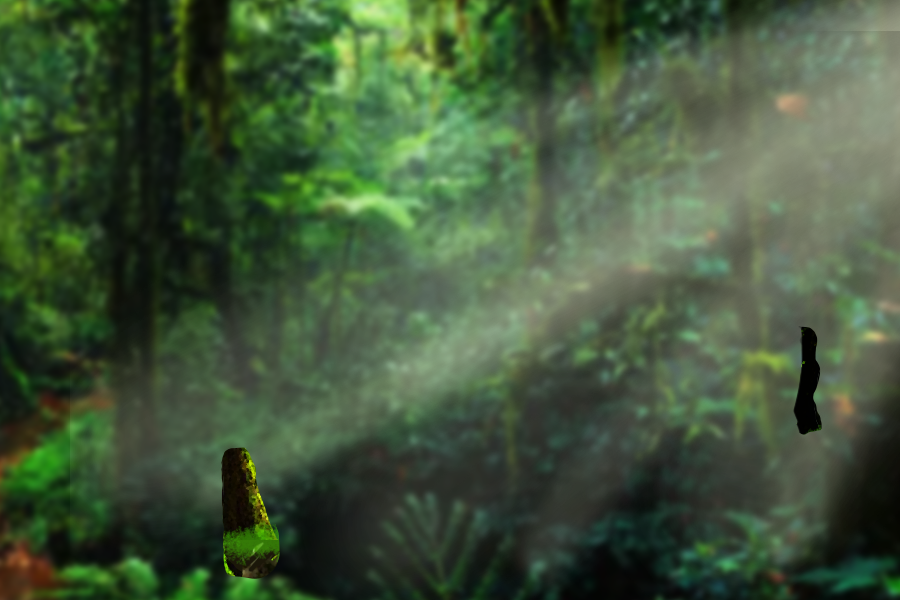
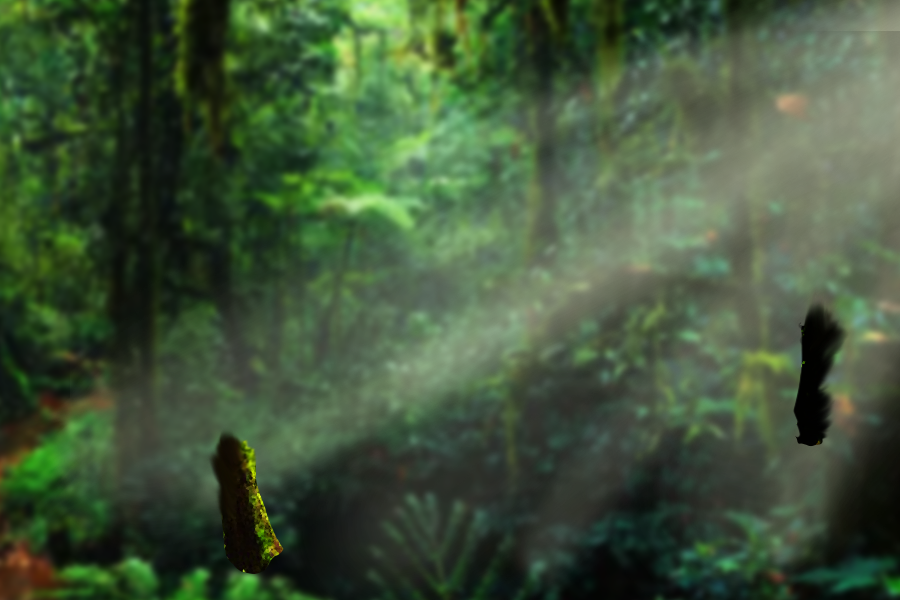
new scren

diff --git a/src/Levels/Level.js b/src/Levels/Level.js
@@ -314,16 +314,16 @@ class Level {
       },
       3: {
         renderMap: [
-          0,  0,  0,  0,  0,  0,  0,  0,  0,  0,  0,  0,  0,  0,  0,
-          0,  0,  0,  0,  0,  0,  0,  0,  0,  0,  0,  0,  0,  0,  0,
-          0,  0,  0,  0,  0,  0,  0,  0,  0,  0,  0,  0,  0,  0,  0,
-          0,  0,  0,  0,  0,  0,  0,  0,  0,  0,  0,  0,  0,  0,  0,
-          0,  0,  0,  0,  0, 17,  0,  0,  0, 17,  0,  0,  0,  0,  0,
-          0,  0,  0, 17,  0, 16,  0, 17,  0, 16,  0,  3,  1,  1,  1,
-          0,  0,  0, 16,  0,  0,  0, 16,  0,  0,  0,  4, 50,  5,  5,
-          0,  0,  0,  0,  0,  0,  0,  0,  0,  0,  0,  4,  5,  5,  5,
-          1,  1,  1,  1,  1,  0,  0,  0,  0,  0,  0, 55,  5, 40,  5,
-          5,  5,  5,  5,  5,  0,  0,  0,  0,  0,  0,  0,  5,  5,  5
+          0, 25,  0,  0,  0,  0,  0,  0,  0,  0,  0,  0,  0,  0,  0,
+          0, 25,  0,  0,  0,  0,  0,  0,  0,  0,  0,  0,  0,  0,  0,
+          0, 25,  0,  0,  0,  0,  0,  0,  0,  0,  0,  0,  0,  0,  0,
+          0, 25,  0,  0,  0,  0,  0,  0,  0,  0,  0,  0,  0,  0,  0,
+          0, 25,  0,  0,  0,  0,  0,  0,  0,  0,  0,  0,  0,  0,  0,
+         16, 25,  0,  0,  0, 16,  0,  0,  0, 16,  0,  3,  1,  1,  1,
+          0,  0,  0,  0,  0,  0,  0,  0,  0,  0,  0,  4, 50,  5,  5,
+         29, 29, 31,  0,  0,  0,  0,  0,  0,  0,  0,  4,  5,  5,  5,
+          1, 25, 15,  0,  0,  0,  0,  0,  0,  0,  0, 55,  5, 40,  5,
+          0, 25,  0,  0,  0,  0,  0,  0,  0,  0,  0,  0,  5,  5,  5
         ],
         // renderMap: [
         //   0,  0,  0,  0, 38, 39,  0,  0,  0,  0,  0,  0,  0,  0,  0,
@@ -338,16 +338,16 @@ class Level {
         //   0,  0,  0,  0,  0,  0,  0,  0,  0,  0,  0,  6,  6,  6,  6
         // ],
         physicalMap: [
-          0,  0,  0,  0,  0,  0,  0,  0,  0,  0,  0,  0,  0,  0,  0,
-          0,  0,  0,  0,  0,  0,  0,  0,  0,  0,  0,  0,  0,  0,  0,
-          0,  0,  0,  0,  0,  0,  0,  0,  0,  0,  0,  0,  0,  0,  0,
-          0,  0,  0,  0,  0,  0,  0,  0,  0,  0,  0,  0,  0,  0,  0,
-          0,  0,  0,  0,  0,  5,  0,  0,  0,  5,  0,  0,  0,  0,  0,
-          0,  0,  0,  5,  0,  7,  0,  5,  0,  7,  0,  3,  1,  1,  1,
-          0,  0,  0,  7,  0,  0,  0,  7,  0,  0,  0,  6,  6,  6,  6,
-          0,  0,  0,  0,  0,  0,  0,  0,  0,  0,  0,  6,  6,  6,  6,
-          1,  1,  4,  0,  0,  0,  0,  0,  0,  0,  0,  6,  6,  6,  6,
-          0,  0, 10,  0,  0,  0,  0,  0,  0,  0,  0,  0,  6,  6,  6
+          0, 25,  0,  0,  0,  0,  0,  0,  0,  0,  0,  0,  0,  0,  0,
+          0, 25,  0,  0,  0,  0,  0,  0,  0,  0,  0,  0,  0,  0,  0,
+          0, 25,  0,  0,  0,  0,  0,  0,  0,  0,  0,  0,  0,  0,  0,
+          0, 25,  0,  0,  0,  0,  0,  0,  0,  0,  0,  0,  0,  0,  0,
+          0, 25,  0,  0,  0,  0,  0,  0,  0,  0,  0,  0,  0,  0,  0,
+         16, 25,  0,  0,  0,  0,  0,  0,  0,  0,  0,  3,  1,  1,  1,
+          0,  0,  0,  0,  0,  0,  0,  0,  0,  0,  0,  4, 50,  5,  5,
+         29, 29, 31,  0,  0,  0,  0,  0,  0,  0,  0,  4,  5,  5,  5,
+          1, 25, 15,  0,  0,  0,  0,  0,  0,  0,  0,  0,  5, 40,  5,
+          0, 25,  0,  0, 29, 29, 29, 29, 31,  0,  0, 29, 29, 29, 29
         ],
         enemies: {
           1: new Helicopter(Helicopter.hel1([100, 25])),
@@ -359,8 +359,10 @@ class Level {
 
         },
         levelLayers: {
-          background: "./assets/lv1_back.png"
-        }
+          background: "./assets/lvl3_back.png",
+          mid: "./assets/lvl3_mid.png",
+          front: "./assets/lvl3_front.png"
+        },
       },
       4: {
         renderMap: [

diff --git a/src/Game.js b/src/Game.js
@@ -352,10 +352,10 @@ class Game {
     if (!this.gameOver) {
       this.loadLevel();
       this.level.renderBackground(this.ctx, this.canvas);
-      if (this.level.screen > 2) this.level.drawLevel(this.ctx);
+      if (this.level.screen > 3) this.level.drawLevel(this.ctx);
       this.player.drawPlayer(this.frameCount);
       this.playerUpdate();
-      if (this.level.screen < 3) {
+      if (this.level.screen < 4) {
         this.level.renderMid(this.ctx, this.canvas);
         this.level.renderFront(this.ctx, this.canvas);
       }
